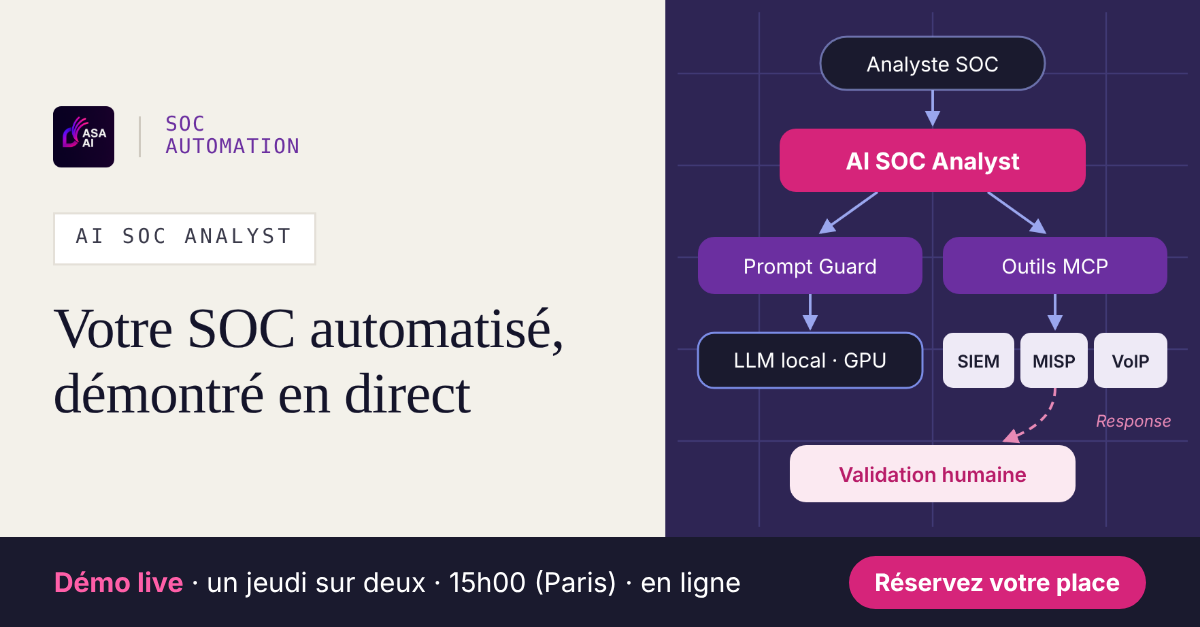
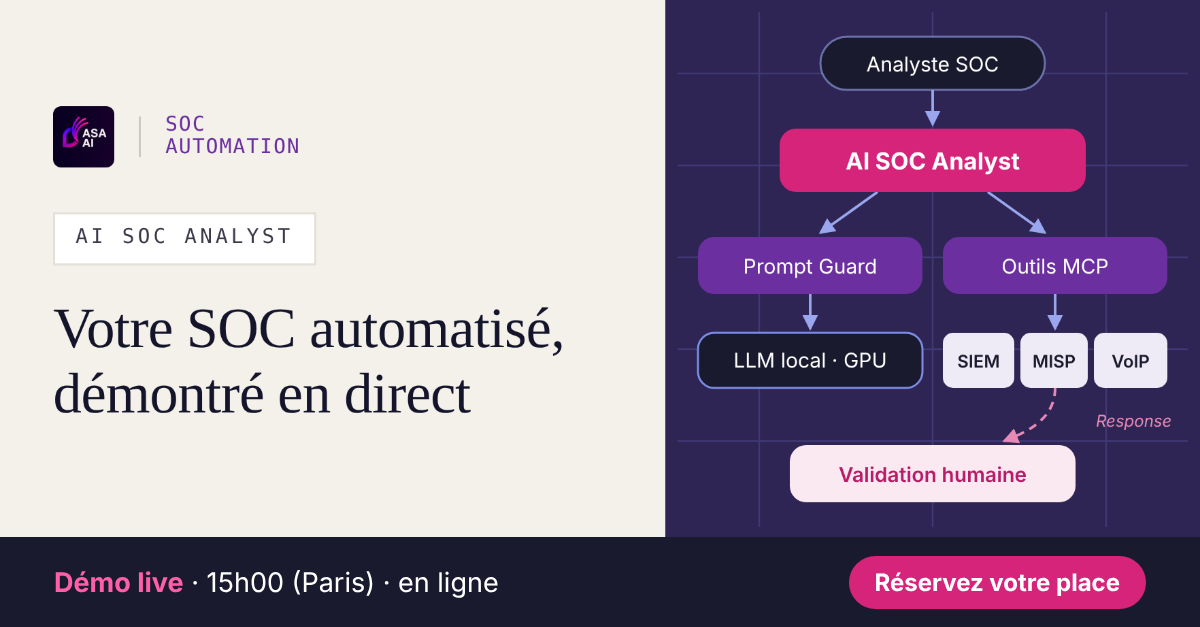
Landing : retrait de 'un jeudi sur deux', programme SIEM / Detection de la fraude ; README d'origine retabli
Claude-Session: https://claude.ai/code/session_016EQJnSXcry8iC3KKissdvc

Changed region(s): [[0.1542, 0.9091, 0.6167, 0.9697]]

diff --git a/index.html b/index.html
@@ -4,13 +4,13 @@
 <meta charset="utf-8">
 <meta name="viewport" content="width=device-width, initial-scale=1">
 <title>AI SOC Analyst — Démo live | ASA AI</title>
-<meta name="description" content="Un jeudi sur deux à 15h00 : démonstration en direct de l'AI SOC Analyst d'ASA AI et de l'automatisation du SOC.">
+<meta name="description" content="À 15h00 (heure de Paris) : démonstration en direct de l'AI SOC Analyst d'ASA AI et de l'automatisation du SOC.">
 <link rel="canonical" href="https://khemegha.github.io/asa-ai-live/">
 <meta property="og:type" content="website">
 <meta property="og:site_name" content="ASA AI">
 <meta property="og:url" content="https://khemegha.github.io/asa-ai-live/">
 <meta property="og:title" content="AI SOC Analyst — Votre SOC automatisé, démontré en direct">
-<meta property="og:description" content="Un jeudi sur deux à 15h00 (Paris), en ligne : triage des alertes, priorisation des CVE, MISP, VoIP/SIP et réponse validée par l'humain. 100 places par session.">
+<meta property="og:description" content="À 15h00 (Paris), en ligne : triage des alertes SIEM, priorisation des CVE, MISP, détection de la fraude et réponse validée par l'humain. 100 places par session.">
 <meta property="og:image" content="https://khemegha.github.io/asa-ai-live/assets/og-card.png">
 <meta property="og:image:width" content="1200">
 <meta property="og:image:height" content="627">
@@ -181,7 +181,7 @@
         </div>
         <div class="fact">
           <svg viewBox="0 0 24 24"><path d="M12 21s-7-6.2-7-11.5A7 7 0 0 1 19 9.5C19 14.8 12 21 12 21z"/><circle cx="12" cy="9.5" r="2.5"/></svg>
-          <b data-i18n="virtual"></b><span data-i18n="weekly"></span>
+          <b data-i18n="virtual"></b>
         </div>
       </div>
 
@@ -280,14 +280,14 @@
       virtual:"Virtual", weekly:"Every other Thursday",
       demoBtn:"Request a demo", cta:"Register now", bye:"Hope to see you there.", team:"The ASA AI team",
       agendaTitle:"Agenda (45 min)",
-      agenda:["Automated triage and correlation of Wazuh alerts","Prioritisation of critical vulnerabilities per host (CVE + CVSS)","Threat Intelligence enrichment with MISP","VoIP / SIP threat and telephony fraud detection","Incident response with human approval and audit trail","Live Q&A"],
+      agenda:["Automated triage and correlation of SIEM alerts","Prioritisation of critical vulnerabilities per host (CVE + CVSS)","Threat Intelligence enrichment with MISP","Fraud detection","Incident response with human approval and audit trail","Live Q&A"],
       regTitle:"Save your seat", regSub:"100 seats per session. You will receive a confirmation email with the joining link.",
       thanks:"Thank you, your registration is confirmed. A confirmation email has just been sent to you.",
       first:"First name", last:"Last name", email:"Business email", company:"Company", role:"Job title", session:"Session",
       consent:"I agree that ASA AI may use this information to organise the session and contact me about it.",
       submit:"Register", at:"3:00 PM",
       subject:"New registration — AI SOC Analyst live demo (EN)",
-      auto:"Thank you for registering for the AI SOC Analyst live demo (every other Thursday, 3:00 PM Paris time). We will send you the joining link before the session. — The ASA AI team · contact@asa-ai.fr · www.asa-ai.fr"
+      auto:"Thank you for registering for the AI SOC Analyst live demo (3:00 PM Paris time). We will send you the joining link before the session. — The ASA AI team · contact@asa-ai.fr · www.asa-ai.fr"
     },
     fr: {
       phone:"Téléphone", phoneHint:"Format international, ex. +33 6 12 34 56 78", emailHint:"Adresse d'entreprise uniquement (pas de Gmail, Outlook, Yahoo…)",
@@ -304,14 +304,14 @@
       virtual:"Virtuel", weekly:"Un jeudi sur deux",
       demoBtn:"Demander une démo", cta:"Inscrivez-vous maintenant", bye:"Au plaisir de vous y retrouver.", team:"L'équipe ASA AI",
       agendaTitle:"Au programme (45 min)",
-      agenda:["Triage automatique des alertes Wazuh et corrélation","Priorisation des vulnérabilités critiques par machine (CVE + CVSS)","Enrichissement Threat Intelligence via MISP","Détection des menaces VoIP / SIP et de la fraude téléphonique","Réponse à incident avec approbation humaine et journal d'audit","Questions / réponses en direct"],
+      agenda:["Triage automatique des alertes SIEM et corrélation","Priorisation des vulnérabilités critiques par machine (CVE + CVSS)","Enrichissement Threat Intelligence via MISP","Détection de la fraude","Réponse à incident avec approbation humaine et journal d'audit","Questions / réponses en direct"],
       regTitle:"Réservez votre place", regSub:"100 places par session. Vous recevez une confirmation par e-mail avec le lien de connexion.",
       thanks:"Merci, votre inscription est enregistrée. Un e-mail de confirmation vient de vous être envoyé.",
       first:"Prénom", last:"Nom", email:"E-mail professionnel", company:"Entreprise", role:"Fonction", session:"Session",
       consent:"J'accepte qu'ASA AI utilise ces informations pour organiser la session et me recontacter à son sujet.",
       submit:"Je m'inscris", at:"15h00",
       subject:"Nouvelle inscription — Démo live AI SOC Analyst (FR)",
-      auto:"Merci pour votre inscription à la démonstration live de l'AI SOC Analyst (un jeudi sur deux, 15h00 heure de Paris). Nous vous envoyons le lien de connexion avant la session. — L'équipe ASA AI · contact@asa-ai.fr · www.asa-ai.fr"
+      auto:"Merci pour votre inscription à la démonstration live de l'AI SOC Analyst (15h00 heure de Paris). Nous vous envoyons le lien de connexion avant la session. — L'équipe ASA AI · contact@asa-ai.fr · www.asa-ai.fr"
     },
     es: {
       phone:"Teléfono", phoneHint:"Formato internacional, p. ej. +34 612 34 56 78", emailHint:"Solo dirección de empresa (no Gmail, Outlook, Yahoo…)",
@@ -328,14 +328,14 @@
       virtual:"Virtual", weekly:"Un jueves de cada dos",
       demoBtn:"Solicitar una demo", cta:"Inscríbase ahora", bye:"Esperamos verle allí.", team:"El equipo de ASA AI",
       agendaTitle:"Programa (45 min)",
-      agenda:["Triaje automático y correlación de alertas Wazuh","Priorización de vulnerabilidades críticas por equipo (CVE + CVSS)","Enriquecimiento de Threat Intelligence con MISP","Detección de amenazas VoIP / SIP y de fraude telefónico","Respuesta a incidentes con aprobación humana y registro de auditoría","Preguntas y respuestas en directo"],
+      agenda:["Triaje automático y correlación de alertas SIEM","Priorización de vulnerabilidades críticas por equipo (CVE + CVSS)","Enriquecimiento de Threat Intelligence con MISP","Detección del fraude","Respuesta a incidentes con aprobación humana y registro de auditoría","Preguntas y respuestas en directo"],
       regTitle:"Reserve su plaza", regSub:"100 plazas por sesión. Recibirá un correo de confirmación con el enlace de conexión.",
       thanks:"Gracias, su inscripción ha sido registrada. Le acabamos de enviar un correo de confirmación.",
       first:"Nombre", last:"Apellidos", email:"Correo profesional", company:"Empresa", role:"Cargo", session:"Sesión",
       consent:"Acepto que ASA AI utilice estos datos para organizar la sesión y contactarme al respecto.",
       submit:"Inscribirme", at:"15:00",
       subject:"Nueva inscripción — Demo en directo AI SOC Analyst (ES)",
-      auto:"Gracias por inscribirse en la demostración en directo del AI SOC Analyst (un jueves de cada dos, 15:00 hora de París). Le enviaremos el enlace de conexión antes de la sesión. — El equipo de ASA AI · contact@asa-ai.fr · www.asa-ai.fr"
+      auto:"Gracias por inscribirse en la demostración en directo del AI SOC Analyst (15:00 hora de París). Le enviaremos el enlace de conexión antes de la sesión. — El equipo de ASA AI · contact@asa-ai.fr · www.asa-ai.fr"
     }
   };
 

diff --git a/README.md b/README.md
@@ -1,68 +1,7 @@
-**English** · [Français](README.fr.md)
+# AI SOC Analyst Live · ASA AI
 
-# ASA AI — AI SOC Analyst, live demo
+Registration page for the live demo of the ASA AI **AI SOC Analyst**, at 3:00 pm (Paris time).
 
-A live, 45-minute session showing how an AI agent **triages alerts, prioritises vulnerabilities and prepares incident response** on a real SOC environment (Wazuh SIEM, MISP, VoIP/SIP), with every response proposal subject to **human approval**.
+**→ https://khemegha.github.io/asa-ai-live/**
 
-> Published by **ASA AI** — SOC automation and VoIP service security.
-> Contact: **<contact@asa-ai.fr>** · [www.asa-ai.fr](https://www.asa-ai.fr)
-
-**→ Register: [khemegha.github.io/asa-ai-live](https://khemegha.github.io/asa-ai-live/)**
-
-**→ Private demo: [khemegha.github.io/asa-ai-live/demo.html](https://khemegha.github.io/asa-ai-live/demo.html)**
-
----
-
-## Preview
-
-**One page, two paths — join the next live session, or book a private demo for your team.**
-
-### 1. The live session
-
-Every other Thursday at **3:00 pm Paris time** (2:00 pm UK), online. Built for SOC teams, MSSPs and cyber teams in banking, insurance and the public sector.
-
-![AI SOC Analyst live demo landing page](docs/en/landing.png)
-
-**Agenda (45 min)**
-
-- Automated triage and correlation of Wazuh alerts
-- Prioritisation of critical vulnerabilities per host (CVE + CVSS)
-- Threat Intelligence enrichment with MISP
-- VoIP / SIP threat and telephony fraud detection
-- Incident response with human approval and audit trail
-- Live Q&A
-
-### 2. Save your seat
-
-**100 seats per session.** You receive a confirmation e-mail with the joining link.
-
-![Registration form](docs/en/registration.png)
-
-### 3. Request a private demo
-
-A 30-minute session tailored to your SOC, live on a real Wazuh / MISP environment. Your data stays sovereign: local models, no foreign cloud.
-
-![Demo request form](docs/en/demo-request.png)
-
----
-
-## Access
-
-1. Open **[khemegha.github.io/asa-ai-live](https://khemegha.github.io/asa-ai-live/)** — the page displays in your browser's language (English, French or Spanish).
-2. Register for a session, or click **Request a demo**.
-3. A **business e-mail** and a **phone number** are required (free and personal mailboxes are not accepted).
-4. Our team contacts you to confirm.
-
----
-
-## Privacy
-
-Your details are only used to organise the session or the demo and to contact you about it. To be removed, write to **<contact@asa-ai.fr>**.
-
----
-
-## Support
-
-**<contact@asa-ai.fr>** — questions, private demos, pilot projects.
-
-© ASA AI. All rights reserved.
+100 seats per session. Contact: contact@asa-ai.fr · [www.asa-ai.fr](https://www.asa-ai.fr)
